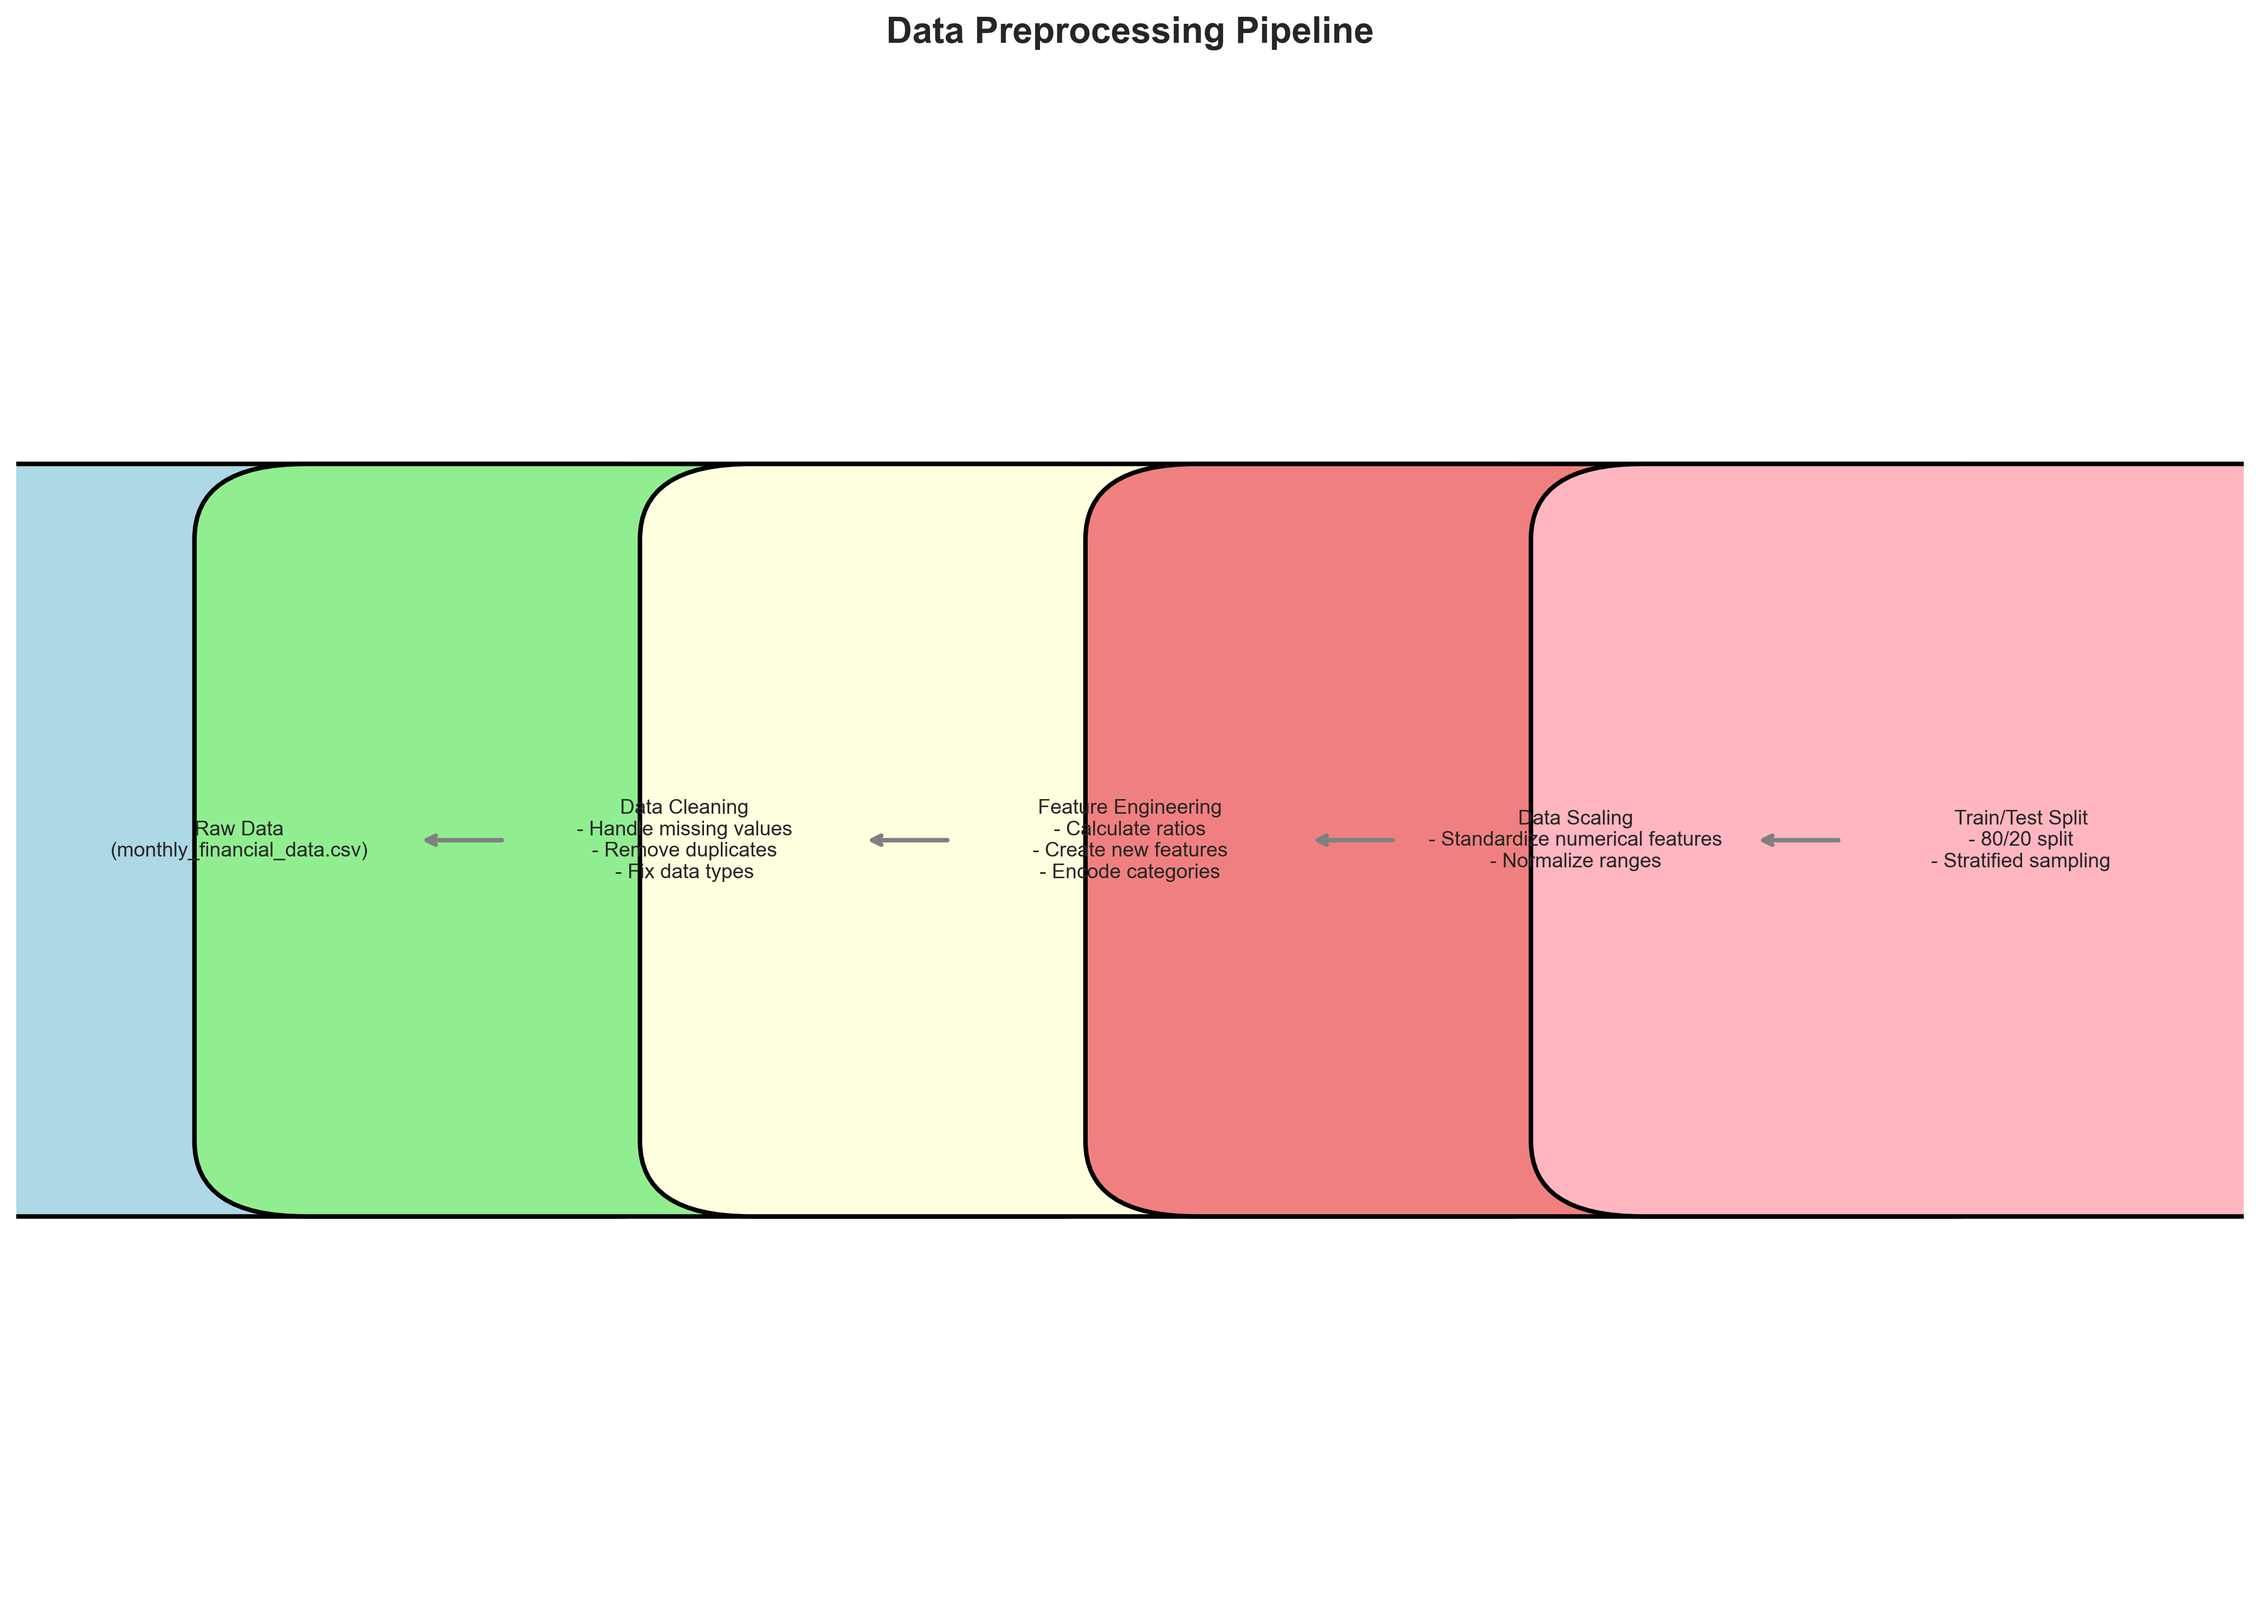
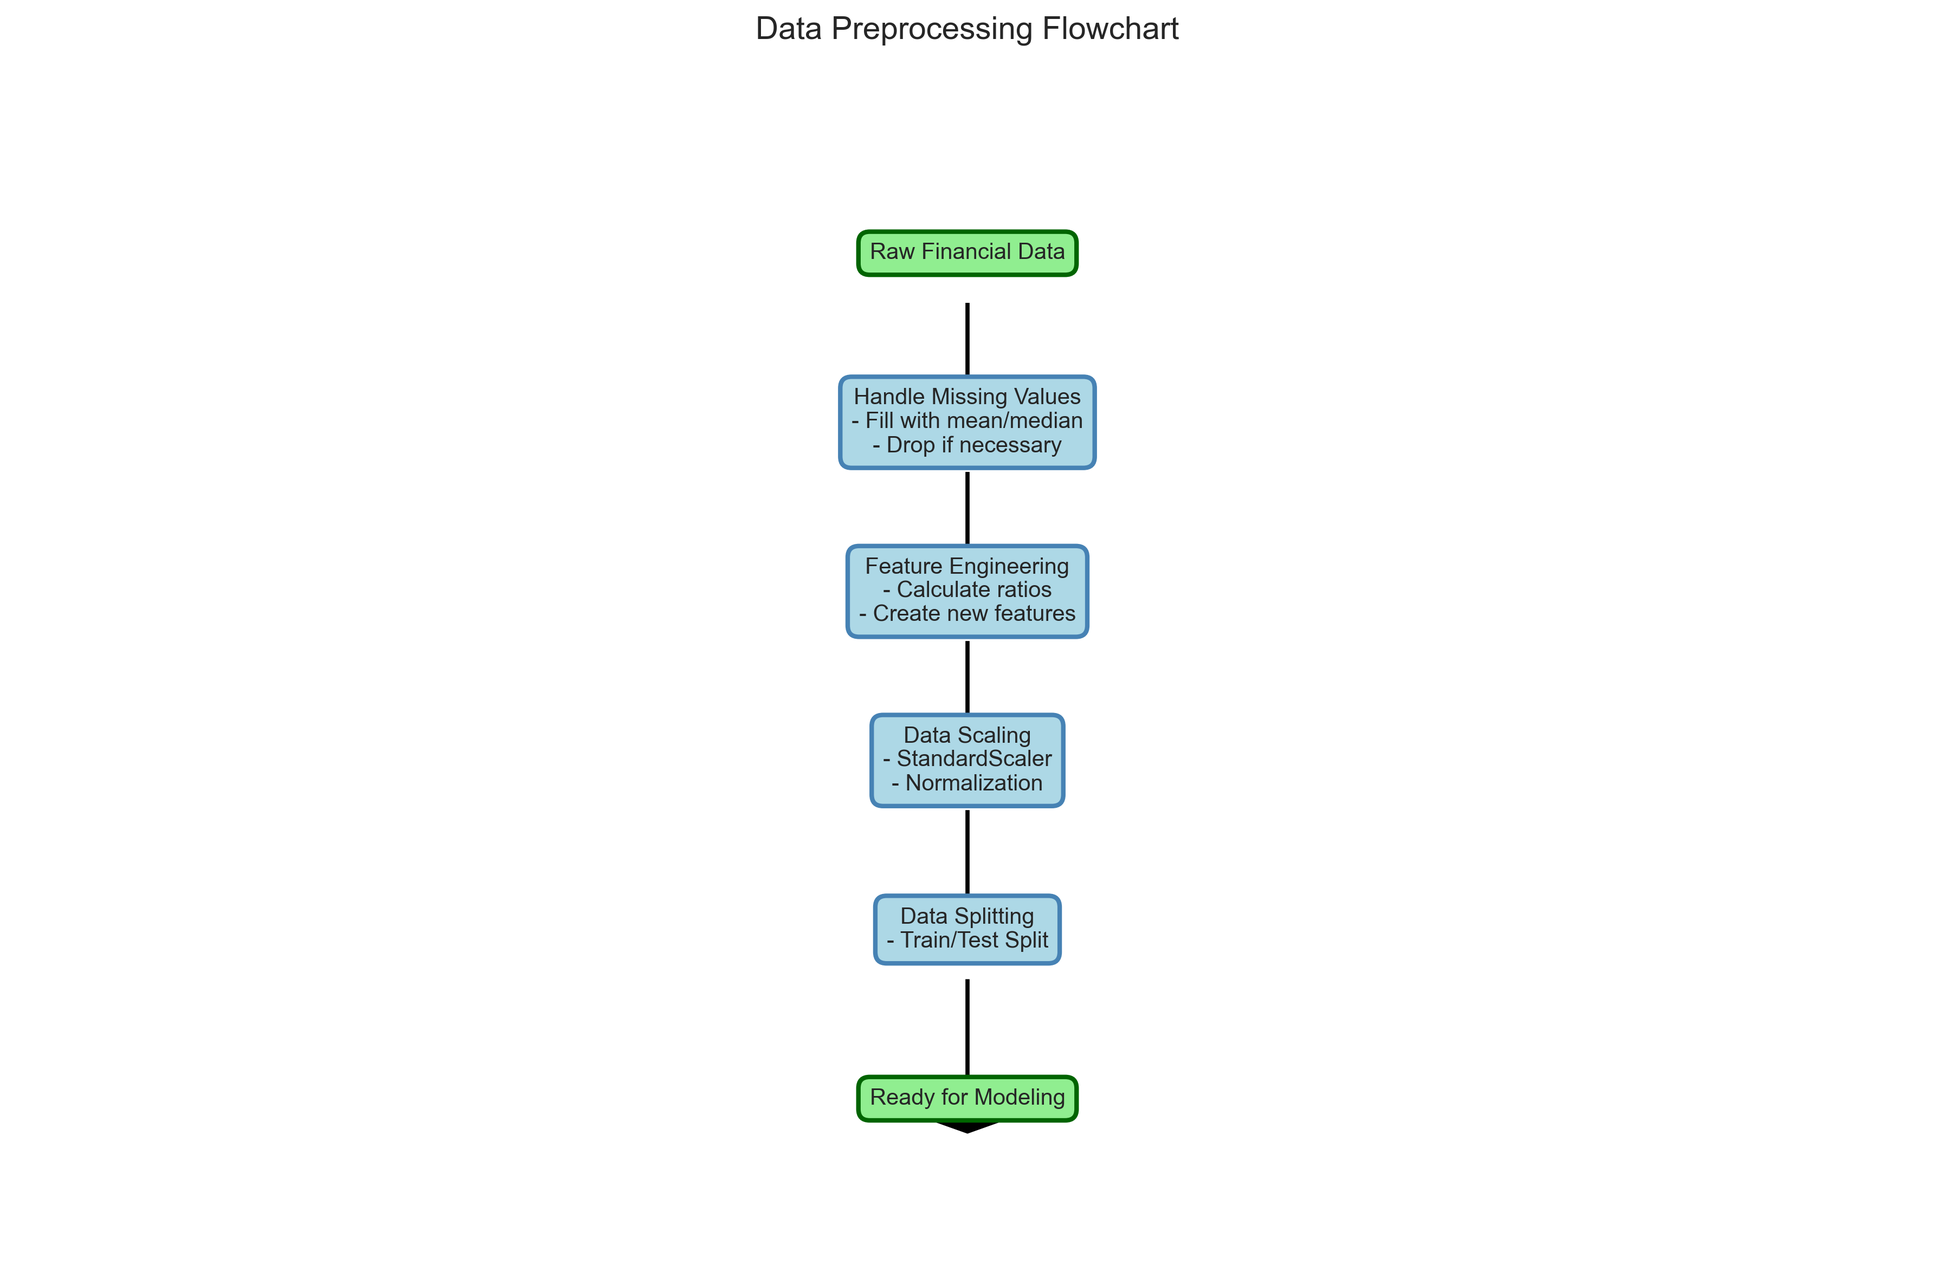
latest working version, but lesser tests run

diff --git a/visualizations.py b/visualizations.py
@@ -235,6 +235,14 @@ def create_metrics_bar_chart(classification_report_dict, save_path='plots'):
 def create_sample_predictions_table(df, n_samples=10, save_path='plots'):
     """Create a table of sample predictions with actual vs predicted values."""
     try:
+        import matplotlib.font_manager as fm
+        
+        # Try to use DejaVu Sans, which has better Unicode support
+        if 'DejaVu Sans' in fm.get_font_names():
+            plt.rcParams['font.family'] = 'DejaVu Sans'
+        elif 'Arial Unicode MS' in fm.get_font_names():
+            plt.rcParams['font.family'] = 'Arial Unicode MS'
+        
         os.makedirs(save_path, exist_ok=True)
         
         # Select sample rows
@@ -246,7 +254,7 @@ def create_sample_predictions_table(df, n_samples=10, save_path='plots'):
         # Hide axes
         ax.axis('off')
         
-        # Create table data
+        # Create table data - use text that's available in most fonts
         table_data = []
         for _, row in sample_df.iterrows():
             table_data.append([
@@ -256,7 +264,7 @@ def create_sample_predictions_table(df, n_samples=10, save_path='plots'):
                 f"${row.get('savings', 0):,.2f}",
                 row.get('financial_health', 'N/A'),
                 row.get('predicted_financial_health', 'N/A'),
-                '✓' if row.get('financial_health') == row.get('predicted_financial_health') else '✗'
+                'CORRECT' if row.get('financial_health') == row.get('predicted_financial_health') else 'WRONG'
             ])
         
         # Create column headers
@@ -301,7 +309,7 @@ def create_sample_predictions_table(df, n_samples=10, save_path='plots'):
         raise
 
 def create_methodology_visualizations(save_path='plots'):
-    """Create visualizations for the methodology section.
+    """Create visualizations for the methodology section using Matplotlib.
     
     This includes:
     1. Data Preprocessing Flowchart
@@ -309,67 +317,110 @@ def create_methodology_visualizations(save_path='plots'):
     3. Linear Regression Schematic
     """
     try:
-        import graphviz
-        from graphviz import Digraph
+        import os
+        import matplotlib.pyplot as plt
+        from matplotlib.patches import FancyArrowPatch, BoxStyle
+        from matplotlib.patches import Rectangle, FancyBboxPatch
+        import numpy as np
         
         os.makedirs(save_path, exist_ok=True)
+        
+        # Set style
+        plt.style.use('seaborn-v0_8-whitegrid')
         
         # -----------------------------
         # 1. Data Preprocessing Flowchart
         # -----------------------------
-        print("📊 Creating data preprocessing flowchart...")
-        dot = Digraph(comment='Data Preprocessing Flowchart', 
-                     node_attr={'style': 'filled', 'fillcolor': '#E1F5FE', 'fontname': 'Helvetica'},
-                     edge_attr={'fontname': 'Helvetica'})
+        print(" Creating data preprocessing flowchart...")
+        fig, ax = plt.subplots(figsize=(12, 8))
         
-        # Add nodes
-        dot.node('A', 'Raw Financial Data', shape='ellipse', color='#4CAF50')
-        dot.node('B', 'Handle Missing Values\n- Fill with mean/median\n- Drop if necessary', shape='box')
-        dot.node('C', 'Feature Engineering\n- Calculate ratios\n- Create new features', shape='box')
-        dot.node('D', 'Data Scaling\n- StandardScaler\n- Normalization', shape='box')
-        dot.node('E', 'Data Splitting\n- Train/Test Split', shape='box')
-        dot.node('F', 'Ready for Modeling', shape='ellipse', color='#4CAF50')
+        # Define box styles
+        box_style = dict(boxstyle="round,pad=0.5", fc="lightblue", ec="steelblue", lw=2)
+        start_end_style = dict(boxstyle="round,pad=0.5", fc="lightgreen", ec="darkgreen", lw=2)
         
-        # Add edges
-        dot.edges(['AB', 'BC', 'CD', 'DE', 'EF'])
+        # Define positions
+        y_pos = [7, 6, 5, 4, 3, 2]
         
-        # Save the flowchart
-        dot.format = 'png'
-        dot.render(f'{save_path}/data_preprocessing_flowchart', cleanup=True)
+        # Draw boxes
+        boxes = [
+            ("Raw Financial Data", start_end_style),
+            ("Handle Missing Values\n- Fill with mean/median\n- Drop if necessary", box_style),
+            ("Feature Engineering\n- Calculate ratios\n- Create new features", box_style),
+            ("Data Scaling\n- StandardScaler\n- Normalization", box_style),
+            ("Data Splitting\n- Train/Test Split", box_style),
+            ("Ready for Modeling", start_end_style)
+        ]
+        
+        for i, (text, style) in enumerate(boxes):
+            ax.text(0.5, y_pos[i], text, 
+                   ha='center', va='center', 
+                   bbox=style, fontsize=10)
+            
+            # Draw arrow
+            if i < len(boxes) - 1:
+                ax.arrow(0.5, y_pos[i] - 0.3, 0, -0.8, 
+                        head_width=0.05, head_length=0.1, 
+                        fc='black', ec='black')
+        
+        ax.set_xlim(0, 1)
+        ax.set_ylim(1, 8)
+        ax.axis('off')
+        plt.title('Data Preprocessing Flowchart', fontsize=14, pad=20)
+        plt.tight_layout()
+        plt.savefig(os.path.join(save_path, 'data_preprocessing_flowchart.png'), dpi=300, bbox_inches='tight')
+        plt.close()
         
         # -----------------------------
         # 2. Random Forest Classifier Schematic
         # -----------------------------
-        print("🌲 Creating Random Forest schematic...")
-        dot = Digraph(comment='Random Forest Classifier', 
-                     node_attr={'style': 'filled', 'fontname': 'Helvetica'},
-                     graph_attr={'rankdir': 'TB'})
+        print(" Creating Random Forest schematic...")
+        fig, ax = plt.subplots(figsize=(12, 8))
         
-        # Add nodes
-        dot.node('A', 'Input Features\n(Income, Expenses, etc.)', shape='box', color='#E1F5FE')
+        # Draw decision trees
+        tree_positions = [(0.2, 0.7), (0.5, 0.7), (0.8, 0.7)]
+        for i, (x, y) in enumerate(tree_positions, 1):
+            # Tree trunk
+            ax.plot([x, x], [y, y - 0.2], 'k-', lw=2)
+            # Tree top
+            ax.add_patch(plt.Circle((x, y + 0.1), 0.15, color='lightgreen', ec='darkgreen', lw=2))
+            ax.text(x, y + 0.1, f'Tree {i}', ha='center', va='center', fontsize=10)
         
-        # Add decision trees
-        for i in range(1, 4):
-            dot.node(f'T{i}', f'Decision Tree {i}', shape='ellipse', color='#FFF9C4')
-            dot.edge('A', f'T{i}')
+        # Draw input features
+        ax.text(0.5, 0.3, 'Input Features\n(Income, Expenses, etc.)', 
+               ha='center', va='center', 
+               bbox=dict(boxstyle="round,pad=0.5", fc="lightblue", ec="steelblue", lw=2))
         
-        # Add voting node
-        dot.node('V', 'Majority Vote', shape='diamond', color='#C8E6C9')
-        for i in range(1, 4):
-            dot.edge(f'T{i}', 'V')
+        # Draw voting node
+        ax.add_patch(plt.Circle((0.5, 0.5), 0.08, color='lightyellow', ec='goldenrod', lw=2))
+        ax.text(0.5, 0.5, 'Vote', ha='center', va='center', fontsize=10)
         
-        # Add output
-        dot.node('O', 'Financial Health\nPrediction', shape='box', color='#E1F5FE')
-        dot.edge('V', 'O')
+        # Draw output
+        ax.text(0.5, 0.1, 'Financial Health\nPrediction', 
+               ha='center', va='center', 
+               bbox=dict(boxstyle="round,pad=0.5", fc="lightblue", ec="steelblue", lw=2))
         
-        # Save the schematic
-        dot.format = 'png'
-        dot.render(f'{save_path}/random_forest_schematic', cleanup=True)
+        # Draw arrows
+        ax.arrow(0.5, 0.4, 0, 0.08, head_width=0.02, head_length=0.02, fc='black', ec='black')
+        ax.arrow(0.5, 0.58, 0, 0.1, head_width=0.02, head_length=0.02, fc='black', ec='black')
+        
+        # Draw connections from trees to voting
+        for x, _ in tree_positions:
+            ax.arrow(x, 0.6, 0.5 - x, -0.1, 
+                    head_width=0.02, head_length=0.02, 
+                    fc='black', ec='black', linestyle='--', alpha=0.5)
+        
+        ax.set_xlim(0, 1)
+        ax.set_ylim(0, 1)
+        ax.axis('off')
+        plt.title('Random Forest Classifier', fontsize=14, pad=20)
+        plt.tight_layout()
+        plt.savefig(os.path.join(save_path, 'random_forest_schematic.png'), dpi=300, bbox_inches='tight')
+        plt.close()
         
         # -----------------------------
         # 3. Linear Regression Schematic
         # -----------------------------
-        print("📈 Creating Linear Regression schematic...")
+        print(" Creating Linear Regression schematic...")
         plt.figure(figsize=(10, 6))
         
         # Generate sample data
@@ -401,10 +452,10 @@ def create_methodology_visualizations(save_path='plots'):
         
         # Save the plot
         plt.tight_layout()
-        plt.savefig(f'{save_path}/linear_regression_schematic.png', dpi=300, bbox_inches='tight')
+        plt.savefig(os.path.join(save_path, 'linear_regression_schematic.png'), dpi=300, bbox_inches='tight')
         plt.close()
         
-        print("✅ Methodology visualizations created successfully!")
+        print(" Methodology visualizations created successfully!")
         
     except Exception as e:
         print(f"Error creating methodology visualizations: {str(e)}")

diff --git a/predict_pipeline.py b/predict_pipeline.py
@@ -4,6 +4,7 @@ import matplotlib.pyplot as plt
 import seaborn as sns
 import joblib
 import os
+import argparse
 from sklearn.metrics import classification_report, mean_squared_error, r2_score
 from visualizations import (
     create_financial_health_pie_chart,
@@ -15,6 +16,12 @@ from visualizations import (
     create_sample_predictions_table,
     create_methodology_visualizations
 )
+
+# Parse command line arguments
+parser = argparse.ArgumentParser(description='Run financial health prediction pipeline')
+parser.add_argument('--skip-user-plots', action='store_true', 
+                    help='Skip generating individual user plots')
+args = parser.parse_args()
 
 # -----------------------------
 # 1. Load models
@@ -113,31 +120,30 @@ if 'month' in df.columns:
     df['month'] = pd.to_datetime(df['month'], format='%Y-%m')
 else:
     # Create synthetic months if not present
-    df['month'] = pd.date_range(start="2024-01-01", periods=len(df), freq="M")
+    df['month'] = pd.date_range(start="2024-01-01", periods=len(df), freq="ME")
 
 users = df['user_id'].unique()
 
 # -----------------------------
-# 9. Generate individual user trend plots
+# 9. Generate visualizations for individual users (optional)
 # -----------------------------
-print("📊 Generating individual user plots...")
-for user in users:
-    user_data = df[df['user_id'] == user]
-    
-    # Create a figure with two subplots
-    fig, (ax1, ax2) = plt.subplots(2, 1, figsize=(12, 10))
-    
-    # Plot 1: Income vs Expenses
-    ax1.plot(user_data['month'], user_data['total_income'], 'g-', label='Income')
-    ax1.plot(user_data['month'], user_data['total_expenses'], 'r-', label='Expenses')
-    ax1.set_title(f'Monthly Income vs Expenses for {user}')
-    ax1.set_ylabel('Amount ($)')
-    ax1.legend()
-    ax1.grid(True, linestyle='--', alpha=0.3)
-    
-    # Plot 2: Savings Rate
-    ax2.plot(user_data['month'], user_data['savings_ratio']*100, 'b-', label='Savings Rate')
-    ax2.axhline(y=20, color='r', linestyle='--', label='Recommended (20%)')
+if not args.skip_user_plots:
+    print("\n📊 Generating individual user plots...")
+    for user in users:
+        user_data = df[df['user_id'] == user]
+        if not user_data.empty:
+            # Create user-specific directory
+            user_plot_dir = os.path.join(plot_dir, 'user_plots', str(user))
+            os.makedirs(user_plot_dir, exist_ok=True)
+            
+            # Generate visualizations for this user
+            try:
+                # You can add more user-specific visualizations here
+                pass
+                
+            except Exception as e:
+                print(f"Error generating plots for user {user}: {str(e)}")
+                continue
     ax2.set_title(f'Monthly Savings Rate for {user}')
     ax2.set_xlabel('Month')
     ax2.set_ylabel('Savings Rate (%)')
